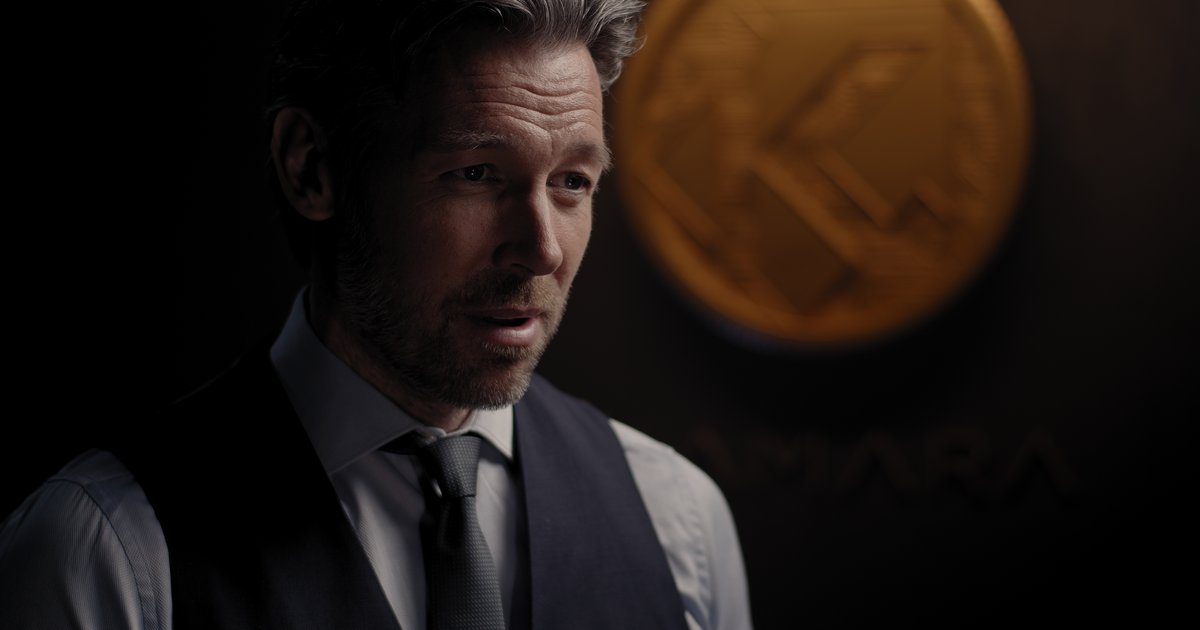
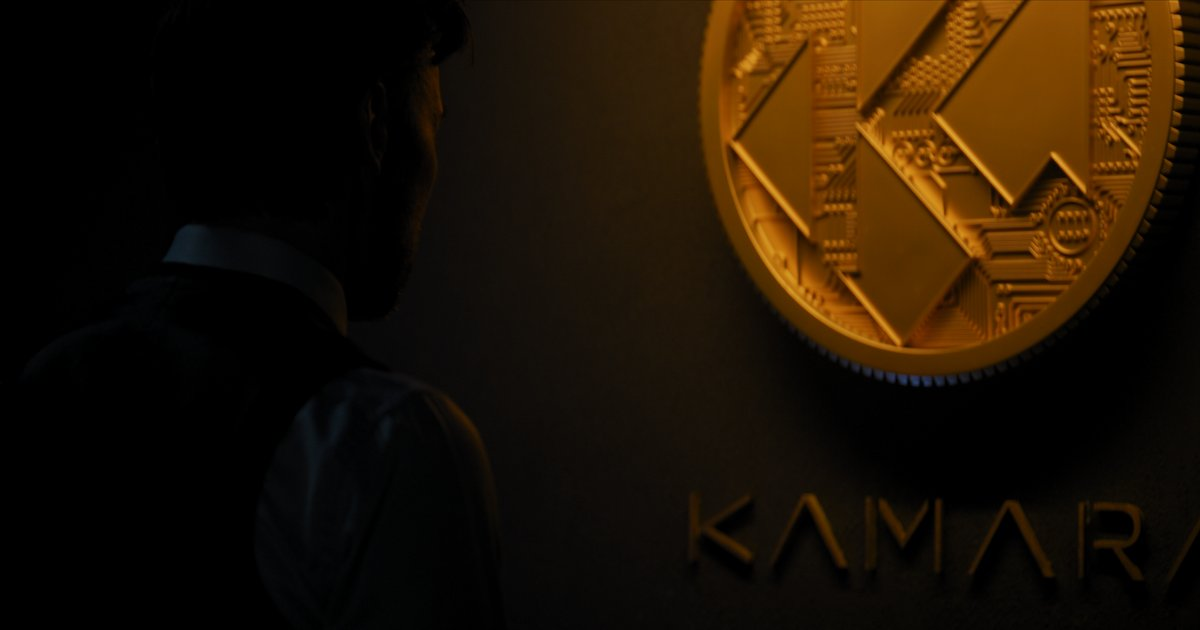
Lookbook: fix bot-preview routing, swap cover image
Function now fetches the deck via the ASSETS binding for real
visitors, still serves the lightweight bot stub for crawlers -- the
static-asset collision was fixed by the previous rename commit.

New cover hero image (KAMARA coin), letterbox cropped. OG/Twitter
preview image regenerated to match. robots.txt updated for the
renamed deck file.

diff --git a/functions/visual-language-lookbook.js b/functions/visual-language-lookbook.js
@@ -29,5 +29,7 @@ export async function onRequest(context) {
       headers: { "content-type": "text/html; charset=utf-8" },
     });
   }
-  return context.next();
+  const assetUrl = new URL(context.request.url);
+  assetUrl.pathname = "/visual-language-lookbook-deck.html";
+  return context.env.ASSETS.fetch(new Request(assetUrl, context.request));
 }
